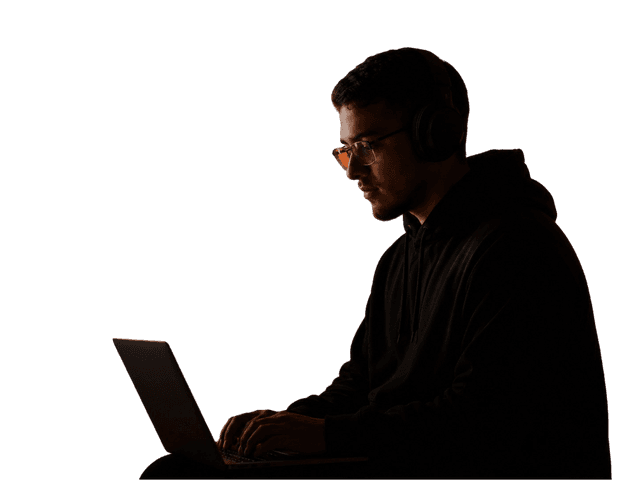
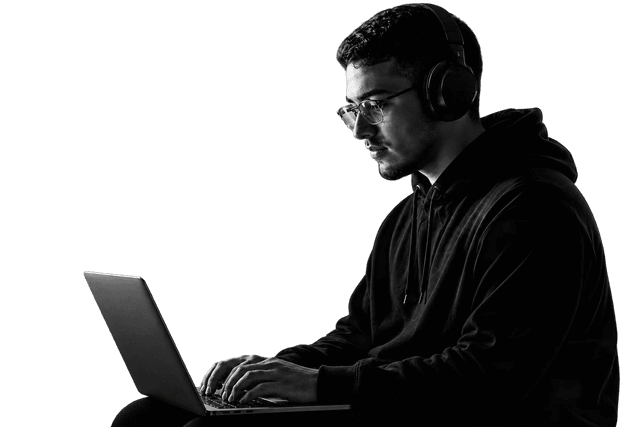
feat: update color scheme for improved contrast and accessibility

diff --git a/src/styles/global.css b/src/styles/global.css
@@ -8,10 +8,10 @@
 
 @theme {
   /* ============================================================
-     SISTEMA DE COR — brasa em um quarto escuro
+     SISTEMA DE COR — preto, branco e cinzas neutros
 
-     Um único hue quente atravessa tudo: as âncoras vivem entre 38° e 78°
-     em OKLCH. O accent é raro de propósito; é da raridade que ele tira força.
+     O contraste vem da escala de luminosidade: preto profundo para a base,
+     branco para as ações e cinzas neutros para criar hierarquia.
 
      Regra da casa: tom de texto e de estrutura são valores explícitos, nunca
      `cor/alpha`. Derivar por alpha zerava a croma (todo cinza saía em 0.000,
@@ -20,31 +20,31 @@
      ============================================================ */
 
   /* ---- Âncoras de marca: fixadas também no manifest e no theme-color ---- */
-  --color-bg: #060606; /* oklch(12.2% 0     90) */
-  --color-bg-soft: #0b0b0b; /* oklch(15.0% 0     90) */
-  --color-surface: #101010; /* oklch(17.3% 0     90) */
-  --color-ink: #f2f0ed; /* oklch(95.6% 0.005 78)  17.81:1 */
-  --color-muted: #98928c; /* oklch(66.3% 0.011 68)   6.59:1 */
-  --color-accent: #ff5a1f; /* oklch(68.2% 0.211 38)   6.50:1 */
+  --color-bg: #050505;
+  --color-bg-soft: #0b0b0b;
+  --color-surface: #111111;
+  --color-ink: #f5f5f5;
+  --color-muted: #a3a3a3;
+  --color-accent: #ffffff;
 
   /* ---- Escala de texto: degraus explícitos, todos acima de 4.5:1 ---- */
-  --color-ink-soft: #b0a9a1; /* oklch(73.8% 0.014 72)   8.70:1 */
-  --color-muted-deep: #898078; /* oklch(60.6% 0.016 68)   5.25:1 */
-  --color-faint: #7e7770; /* oklch(57.4% 0.014 66)   4.60:1 */
+  --color-ink-soft: #d4d4d4;
+  --color-muted-deep: #8f8f8f;
+  --color-faint: #737373;
 
   /* ---- Estrutura: mesma luminância de antes, hue recuperado ---- */
-  --color-line: #1d1916; /* oklch(21.8% 0.008 68)   1.16:1 */
-  --color-line-strong: #322d29; /* oklch(30.1% 0.010 68)   1.49:1 */
-  --color-rule: #2c2824; /* oklch(28.1% 0.010 68)   1.39:1 — separadores */
-  --color-stroke: #7d7771; /* oklch(57.4% 0.012 70)   4.60:1 — texto vazado */
+  --color-line: #1f1f1f;
+  --color-line-strong: #363636;
+  --color-rule: #2b2b2b;
+  --color-stroke: #858585;
 
-  /* ---- Brasa: o accent em papéis de luz, não de tinta ---- */
-  --color-accent-soft: rgba(255, 90, 31, 0.14); /* preenchimento de hover */
-  --color-accent-glow: rgba(255, 90, 31, 0.35); /* emissão das trilhas e CTAs */
-  --color-accent-bloom: rgba(255, 90, 31, 0.1); /* atmosfera de seção (teto: muted fica em 6.06:1) */
-  --color-ember-hot: #ff8c50; /* oklch(75.5% 0.158 47) */
-  --color-ember-warm: #ff6e32; /* oklch(70.8% 0.191 41) */
-  --color-star: #f0eeea; /* alinhado ao hue do ink; antes era 286°, azulado */
+  /* ---- Destaque branco em papéis de luz, não de tinta ---- */
+  --color-accent-soft: rgba(255, 255, 255, 0.08);
+  --color-accent-glow: rgba(255, 255, 255, 0.24);
+  --color-accent-bloom: rgba(255, 255, 255, 0.06);
+  --color-ember-hot: #ffffff;
+  --color-ember-warm: #d8d8d8;
+  --color-star: #f5f5f5;
 
   /* Halos emissivos (sem offset de propósito: é luz, não elevação) */
   --shadow-ember-dot: 0 0 22px var(--color-accent-glow);
@@ -146,12 +146,11 @@
     background: var(--color-bg);
   }
   ::-webkit-scrollbar-thumb {
-    /* oklch(28.5% 0.010 68) — mesma luminância do cinza anterior, agora quente */
-    background: #2e2925;
+    background: #2e2e2e;
     border-radius: 5px;
   }
   ::-webkit-scrollbar-thumb:hover {
-    background: #3e3934; /* oklch(34.8% 0.012 68) */
+    background: #404040;
   }
 
   /* Grão de filme sobre tudo */

diff --git a/index.html b/index.html
@@ -21,7 +21,7 @@
     <meta name="robots" content="index, follow, max-image-preview:large, max-snippet:-1, max-video-preview:-1" />
     <meta name="googlebot" content="index, follow" />
     <meta name="referrer" content="strict-origin-when-cross-origin" />
-    <meta name="theme-color" content="#060606" />
+    <meta name="theme-color" content="#050505" />
 
     <link rel="canonical" href="https://felippetn.com.br/" />
     <link rel="alternate" hreflang="pt-BR" href="https://felippetn.com.br/" />
@@ -148,36 +148,36 @@
           margin: 0 auto;
           padding: 15vh 24px;
           font-family: system-ui, sans-serif;
-          color: #f2f0ed;
+          color: #f5f5f5;
           line-height: 1.6;
         "
       >
         <h1 style="font-size: 28px; font-weight: 800; text-transform: uppercase; line-height: 1.1">
           Felippe Toscano Nalim
         </h1>
-        <p style="margin-top: 8px; color: #98928c">
+        <p style="margin-top: 8px; color: #a3a3a3">
           Engenheiro de Software — backend, IA aplicada e arquitetura de software. Rio de Janeiro, Brasil.
         </p>
-        <p style="margin-top: 24px; color: #98928c">
+        <p style="margin-top: 24px; color: #a3a3a3">
           Este portfolio precisa de JavaScript para carregar. Ative o JavaScript no navegador ou
           fale comigo direto pelos canais abaixo.
         </p>
         <ul style="margin-top: 16px; padding: 0; list-style: none">
           <li style="margin-top: 8px">
-            <a href="mailto:felippenalim2004@gmail.com" style="color: #ff5a1f">
+            <a href="mailto:felippenalim2004@gmail.com" style="color: #ffffff">
               felippenalim2004@gmail.com
             </a>
           </li>
           <li style="margin-top: 8px">
-            <a href="https://wa.me/5521979076630" style="color: #ff5a1f">WhatsApp (21) 97907-6630</a>
+            <a href="https://wa.me/5521979076630" style="color: #ffffff">WhatsApp (21) 97907-6630</a>
           </li>
           <li style="margin-top: 8px">
-            <a href="https://github.com/FelippeTN" style="color: #ff5a1f">github.com/FelippeTN</a>
+            <a href="https://github.com/FelippeTN" style="color: #ffffff">github.com/FelippeTN</a>
           </li>
           <li style="margin-top: 8px">
             <a
               href="https://www.linkedin.com/in/felippe-toscano-nalim"
-              style="color: #ff5a1f"
+              style="color: #ffffff"
             >
               linkedin.com/in/felippe-toscano-nalim
             </a>

diff --git a/src/components/Starfield.tsx b/src/components/Starfield.tsx
@@ -5,12 +5,12 @@ type Particle = {
   y: number
   depth: number // 0 = longe, 1 = perto — controla tamanho, velocidade e parallax
   phase: number
-  ember: boolean // brasas laranja no meio das estrelas brancas
+  ember: boolean // pontos mais luminosos entre as estrelas
 }
 
 /**
- * Campo de partículas 3D em canvas: deriva lenta pra cima (estilo
- * cinzas do Nether), profundidade com parallax de mouse e twinkle.
+ * Campo de partículas 3D em canvas: deriva lenta pra cima, profundidade com
+ * parallax de mouse e twinkle.
  */
 export default function Starfield() {
   const canvasRef = useRef<HTMLCanvasElement>(null)
@@ -22,15 +22,14 @@ export default function Starfield() {
 
     const reduced = window.matchMedia('(prefers-reduced-motion: reduce)').matches
 
-    // Cores vindas do @theme: o canvas passa a obedecer o mesmo sistema que o
-    // resto da página. As estrelas eram #f0f0f5 — hue 286°, azulado — a única
-    // nota fria num design inteiramente quente.
+    // Cores vindas do @theme: o canvas segue a mesma escala monocromática do
+    // restante da página.
     const theme = getComputedStyle(document.documentElement)
     const token = (name: string, fallback: string) =>
       theme.getPropertyValue(name).trim() || fallback
     const STAR = token('--color-star', '#f0eeea')
-    const EMBER_HOT = token('--color-ember-hot', '#ff8c50')
-    const EMBER_WARM = token('--color-ember-warm', '#ff6e32')
+    const EMBER_HOT = token('--color-ember-hot', '#ffffff')
+    const EMBER_WARM = token('--color-ember-warm', '#d8d8d8')
 
     /** Aplica alpha a um hex do tema, no formato que o canvas espera. */
     const withAlpha = (hex: string, alpha: number) => {
@@ -103,7 +102,7 @@ export default function Starfield() {
         const size = 0.4 + d * 1.5
 
         if (p.ember) {
-          // halo quente atrás da brasa
+          // halo sutil atrás do ponto mais luminoso
           ctx.beginPath()
           ctx.fillStyle = withAlpha(EMBER_WARM, alpha * 0.18)
           ctx.arc(sx, sy, size * 3.4, 0, Math.PI * 2)

diff --git a/src/components/About.tsx b/src/components/About.tsx
@@ -6,8 +6,7 @@ import { pt as content } from '../content/siteContent'
 const { about } = content
 
 /* Variantes geradas por scripts/images.mjs (ver public/img/).
-   O retrato é recorte com alpha: fallback PNG. A foto com o Tiangolo é
-   retangular e opaca, então cai para JPEG. */
+   O retrato usa Felippe.jpg; o hero usa a nova versão sem fundo. */
 const FASTAPI_SRCSET = {
   avif: '/img/fastapi-320.avif 320w, /img/fastapi-440.avif 440w, /img/fastapi-640.avif 640w',
   webp: '/img/fastapi-320.webp 320w, /img/fastapi-440.webp 440w, /img/fastapi-640.webp 640w',
@@ -165,7 +164,7 @@ export default function About() {
                 loading="lazy"
                 decoding="async"
                 draggable={false}
-                className="aspect-[4/5] w-full object-cover object-center [filter:contrast(1.04)_saturate(0.92)]"
+                className="aspect-[4/5] w-full object-cover object-[68%_center] [filter:contrast(1.04)_saturate(0.92)]"
               />
             </picture>
             <figcaption className="absolute inset-x-0 bottom-0 bg-gradient-to-t from-black/75 via-black/35 to-transparent px-5 pb-5 pt-16 font-mono text-[11px] uppercase tracking-[0.18em] text-ink/85">

diff --git a/src/components/CursorGlow.tsx b/src/components/CursorGlow.tsx
@@ -50,7 +50,7 @@ export default function CursorGlow() {
   return (
     <div
       ref={ref}
-      className="pointer-events-none fixed left-0 top-0 z-[1] -ml-[280px] -mt-[280px] h-[560px] w-[560px] rounded-full bg-[radial-gradient(circle,rgba(255,90,31,0.05)_0%,rgba(255,90,31,0.02)_35%,transparent_70%)] motion-reduce:hidden [@media(hover:none)]:hidden"
+      className="pointer-events-none fixed left-0 top-0 z-[1] -ml-[280px] -mt-[280px] h-[560px] w-[560px] rounded-full bg-[radial-gradient(circle,var(--color-accent-bloom)_0%,transparent_70%)] motion-reduce:hidden [@media(hover:none)]:hidden"
       aria-hidden="true"
     />
   )
